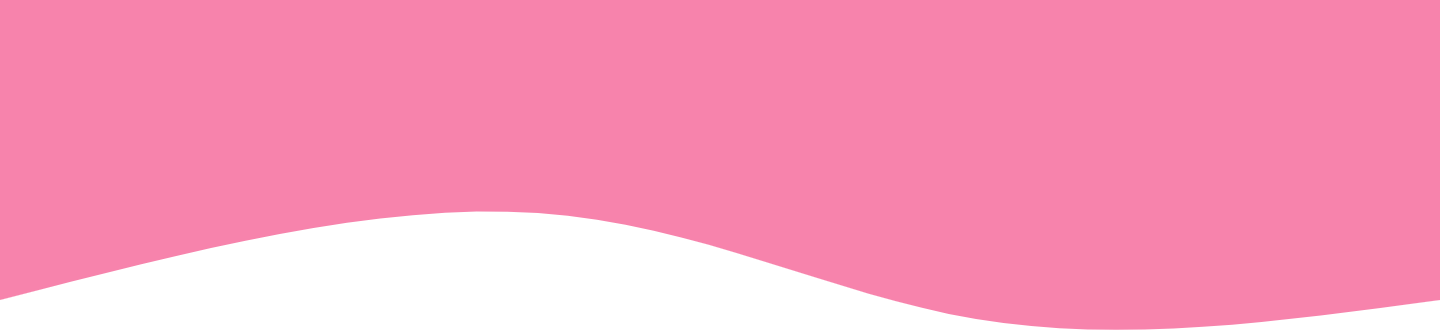
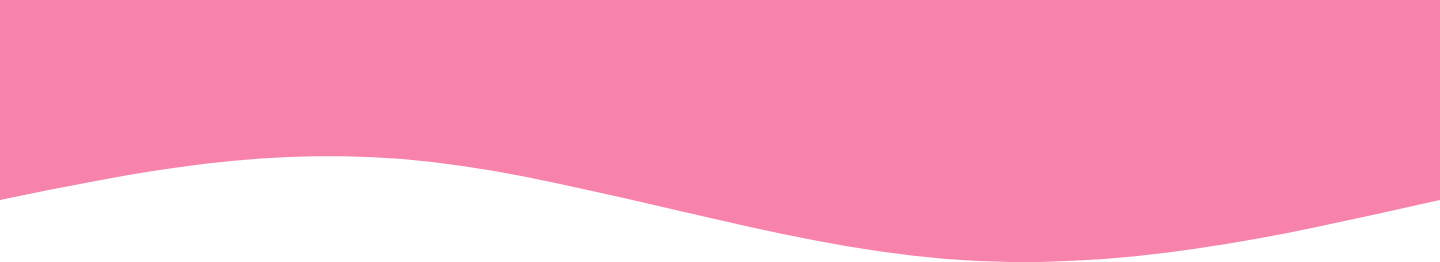
wave

Changed region(s): [[0.0, 0.5802, 1.0, 1.0]]

diff --git a/index.html b/index.html
@@ -65,42 +65,29 @@
         </div>
 
         <!-- Divider -->
-        <svg width="100%" height="100%" id="svg" viewBox="0 0 1440 400" xmlns="http://www.w3.org/2000/svg"
-            class="transition duration-300 ease-in-out delay-150">
-            <style>
-                .path-0 {
-                    animation: pathAnim-0 4s;
-                    animation-timing-function: linear;
-                    animation-iteration-count: infinite;
-                }
-                @keyframes pathAnim-0 {
-                    0% {
-                        d: path("M 0,600 C 0,600 0,300 0,300 C 182.40000000000003,302.5333333333333 364.80000000000007,305.06666666666666 532,305 C 699.1999999999999,304.93333333333334 851.2,302.26666666666665 1000,301 C 1148.8,299.73333333333335 1294.4,299.8666666666667 1440,300 C 1440,300 1440,600 1440,600 Z");
-                    }
-
-                    25% {
-                        d: path("M 0,600 C 0,600 0,300 0,300 C 143.2,327.73333333333335 286.4,355.46666666666664 470,359 C 653.6,362.53333333333336 877.5999999999999,341.8666666666667 1046,328 C 1214.4,314.1333333333333 1327.2,307.06666666666666 1440,300 C 1440,300 1440,600 1440,600 Z");
-                    }
-
-                    50% {
-                        d: path("M 0,600 C 0,600 0,300 0,300 C 173.2,321.4666666666667 346.4,342.93333333333334 495,345 C 643.6,347.06666666666666 767.5999999999999,329.73333333333335 921,319 C 1074.4,308.26666666666665 1257.2,304.1333333333333 1440,300 C 1440,300 1440,600 1440,600 Z");
-                    }
-
-                    75% {
-                        d: path("M 0,600 C 0,600 0,300 0,300 C 125.19999999999999,308.4 250.39999999999998,316.8 434,295 C 617.6,273.2 859.5999999999999,221.20000000000002 1037,217 C 1214.4,212.79999999999998 1327.2,256.4 1440,300 C 1440,300 1440,600 1440,600 Z");
-                    }
-
-                    100% {
-                        d: path("M 0,600 C 0,600 0,300 0,300 C 182.40000000000003,302.5333333333333 364.80000000000007,305.06666666666666 532,305 C 699.1999999999999,304.93333333333334 851.2,302.26666666666665 1000,301 C 1148.8,299.73333333333335 1294.4,299.8666666666667 1440,300 C 1440,300 1440,600 1440,600 Z");
-                    }
-                }
-            </style>
-            <path
-                d="M 0,600 C 0,600 0,300 0,300 C 182.40000000000003,302.5333333333333 364.80000000000007,305.06666666666666 532,305 C 699.1999999999999,304.93333333333334 851.2,302.26666666666665 1000,301 C 1148.8,299.73333333333335 1294.4,299.8666666666667 1440,300 C 1440,300 1440,600 1440,600 Z"
-                stroke="none" stroke-width="0" fill="#f783acff"
-                class="transition-all duration-300 ease-in-out delay-150 path-0" transform="rotate(-180 720 300)">
-            </path>
-        </svg>
+        <svg width="100%" height="100%" id="svg" viewBox="0 0 1440 300" xmlns="http://www.w3.org/2000/svg" class="transition duration-300 ease-in-out delay-150"><style>
+            .path-0{
+              animation:pathAnim-0 4s;
+              animation-timing-function: linear;
+              animation-iteration-count: infinite;
+            }
+            @keyframes pathAnim-0{
+              0%{
+                d: path("M 0,400 C 0,400 0,200 0,200 C 196.93333333333334,197.60000000000002 393.8666666666667,195.20000000000002 529,188 C 664.1333333333333,180.79999999999998 737.4666666666667,168.79999999999998 879,170 C 1020.5333333333333,171.20000000000002 1230.2666666666667,185.60000000000002 1440,200 C 1440,200 1440,400 1440,400 Z");
+              }
+              25%{
+                d: path("M 0,400 C 0,400 0,200 0,200 C 138.40000000000003,219.86666666666665 276.80000000000007,239.7333333333333 443,253 C 609.1999999999999,266.2666666666667 803.2,272.93333333333334 974,263 C 1144.8,253.06666666666666 1292.4,226.53333333333333 1440,200 C 1440,200 1440,400 1440,400 Z");
+              }
+              50%{
+                d: path("M 0,400 C 0,400 0,200 0,200 C 208,180.53333333333333 416,161.06666666666666 567,170 C 718,178.93333333333334 812,216.26666666666665 948,226 C 1084,235.73333333333335 1262,217.86666666666667 1440,200 C 1440,200 1440,400 1440,400 Z");
+              }
+              75%{
+                d: path("M 0,400 C 0,400 0,200 0,200 C 141.33333333333331,221.60000000000002 282.66666666666663,243.20000000000002 454,227 C 625.3333333333334,210.79999999999998 826.6666666666667,156.8 996,146 C 1165.3333333333333,135.2 1302.6666666666665,167.6 1440,200 C 1440,200 1440,400 1440,400 Z");
+              }
+              100%{
+                d: path("M 0,400 C 0,400 0,200 0,200 C 196.93333333333334,197.60000000000002 393.8666666666667,195.20000000000002 529,188 C 664.1333333333333,180.79999999999998 737.4666666666667,168.79999999999998 879,170 C 1020.5333333333333,171.20000000000002 1230.2666666666667,185.60000000000002 1440,200 C 1440,200 1440,400 1440,400 Z");
+              }
+            }</style><path d="M 0,400 C 0,400 0,200 0,200 C 196.93333333333334,197.60000000000002 393.8666666666667,195.20000000000002 529,188 C 664.1333333333333,180.79999999999998 737.4666666666667,168.79999999999998 879,170 C 1020.5333333333333,171.20000000000002 1230.2666666666667,185.60000000000002 1440,200 C 1440,200 1440,400 1440,400 Z" stroke="none" stroke-width="0" fill="#f783acff" class="transition-all duration-300 ease-in-out delay-150 path-0" transform="rotate(-180 720 200)"></path></svg>
 
 
 

diff --git a/styles.css b/styles.css
@@ -10,10 +10,10 @@
     background-color: #F783AC;
 }
 
-#about {
+/* #about {
     padding-top: 250px;
     padding-bottom: 250px;
-}
+} */
 
 .mb-3 {
     margin: 10px;
